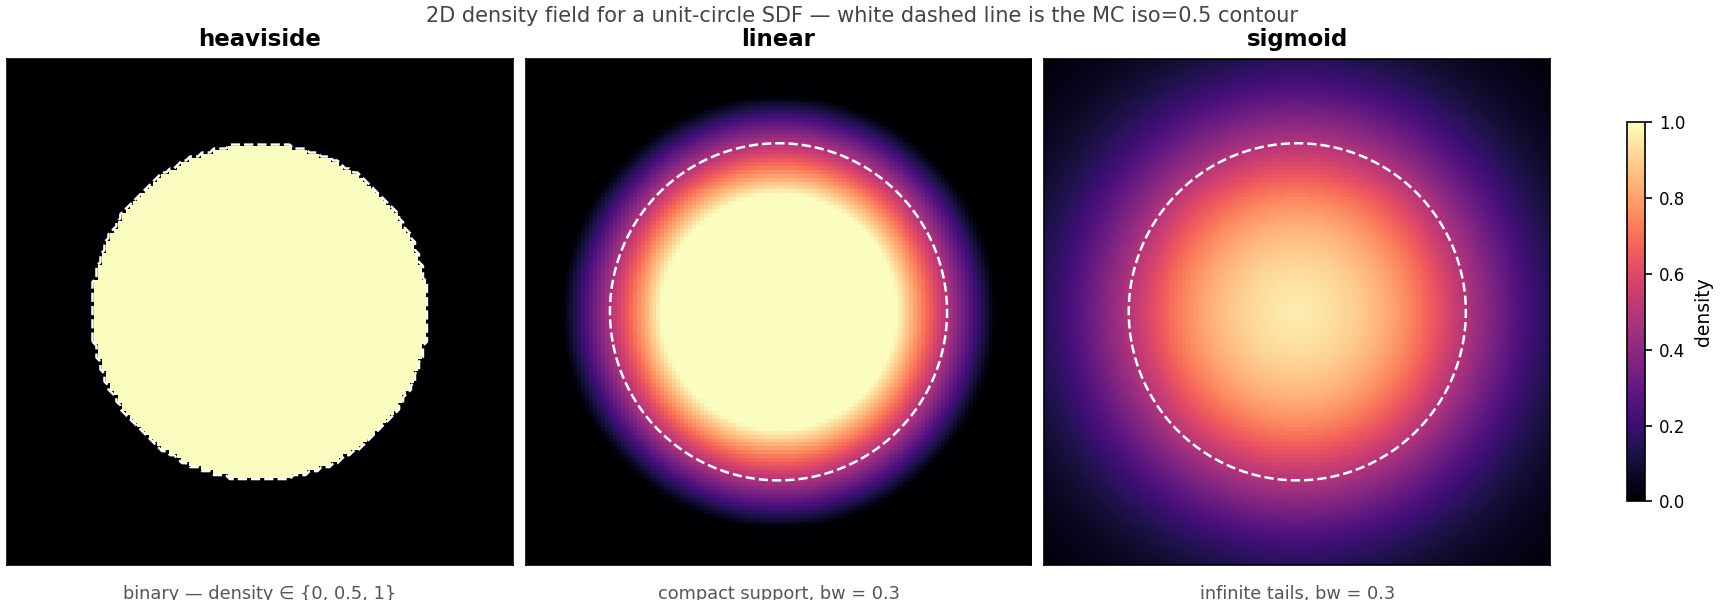
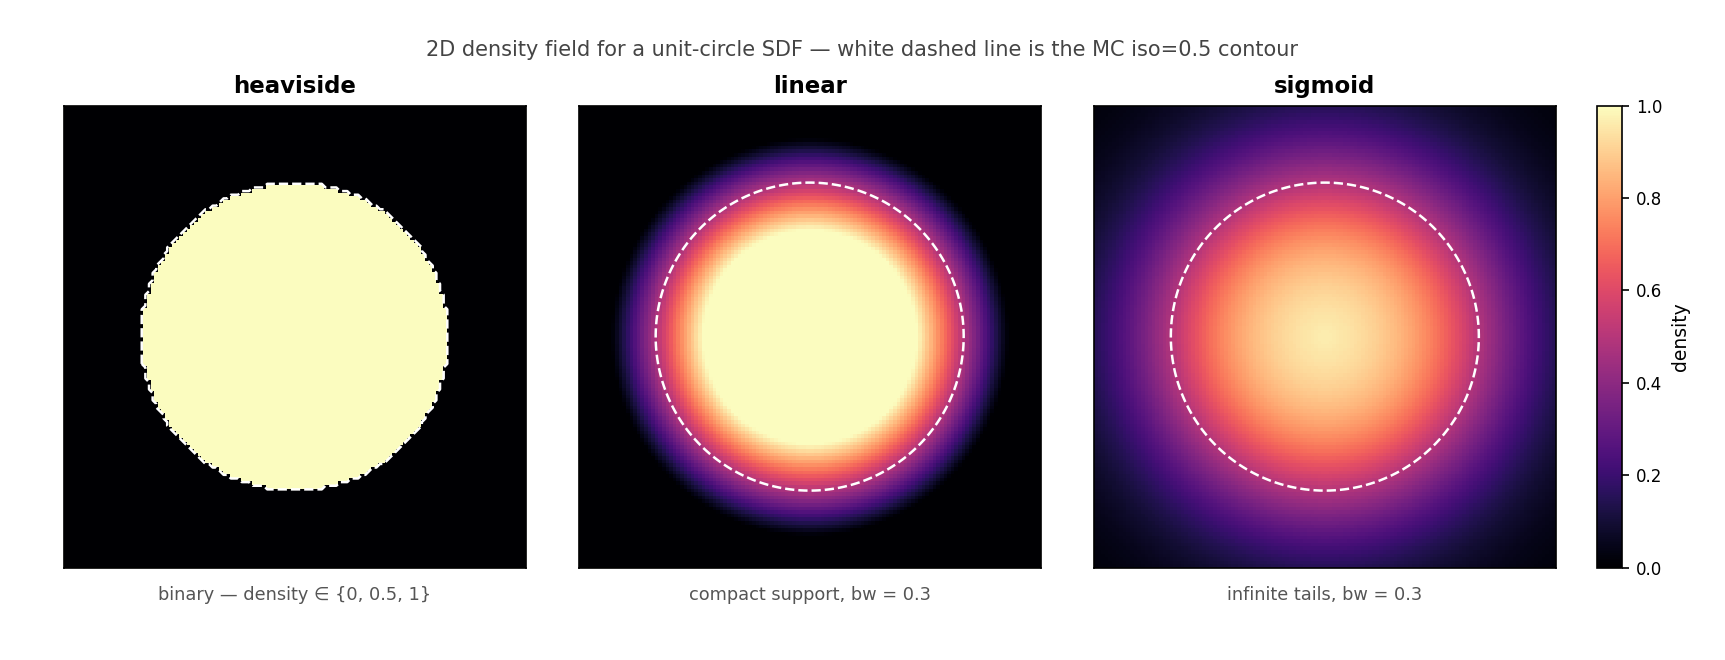
fix(docs): deterministic layout for field-slice figure via GridSpec
constrained_layout packed the suptitle and axis titles too tightly (no
breathing room) after previously leaving a big gap. Neither the gap
problem nor the colorbar overlap have happy automatic solutions when
suptitle + axes-titles + subtitles + colorbar all share a figure.

Switch to explicit GridSpec with:
- dedicated colorbar column (width ratio 0.05) so the colorbar can never
  overlap the sigmoid panel
- top=0.84 / bottom=0.14 margins giving 16%/14% of figure height for the
  suptitle and subtitles
- suptitle y=0.94 anchored inside the top margin

No more constrained_layout, tight_layout, or subplots_adjust. The layout
is specified once and rendered as-is.

diff --git a/scripts/generate_converter_comparison.py b/scripts/generate_converter_comparison.py
@@ -184,7 +184,20 @@ def gen_field_slice() -> None:
         density = sdf_to_density(sdf2d, method=method, bandwidth=bw)  # type: ignore[arg-type]
         panels.append((method, subtitle, density))
 
-    fig, axes = plt.subplots(1, 3, figsize=(11.5, 4.0), dpi=DPI, layout="constrained")
+    # Explicit GridSpec: 3 panel columns + 1 narrow colorbar column. Margins
+    # reserve vertical space for suptitle (top 16%) and subtitles (bottom 14%).
+    fig = plt.figure(figsize=(11.5, 4.4), dpi=DPI)
+    gs = fig.add_gridspec(
+        1, 4,
+        width_ratios=[1, 1, 1, 0.05],
+        left=0.03, right=0.94,
+        top=0.84, bottom=0.14,
+        wspace=0.08,
+    )
+    axes = [fig.add_subplot(gs[0, i]) for i in range(3)]
+    cax = fig.add_subplot(gs[0, 3])
+
+    im = None
     for ax, (method, subtitle, density) in zip(axes, panels, strict=True):
         im = ax.imshow(
             density.T, origin="lower", extent=(-extent, extent, -extent, extent),
@@ -197,13 +210,13 @@ def gen_field_slice() -> None:
         ax.text(0.5, -0.04, subtitle, transform=ax.transAxes,
                 ha="center", va="top", fontsize=8.5, color="#555")
 
-    cbar = fig.colorbar(im, ax=axes, shrink=0.75, aspect=22)
+    cbar = fig.colorbar(im, cax=cax)
     cbar.set_label("density", fontsize=9)
     cbar.ax.tick_params(labelsize=8)
 
     fig.suptitle(
         "2D density field for a unit-circle SDF — white dashed line is the MC iso=0.5 contour",
-        fontsize=10, color="#444",
+        fontsize=10, y=0.94, color="#444",
     )
     fig.patch.set_facecolor(BG_COLOR)
     out = OUTPUT_DIR / "sdf-to-density-field-slice.png"
